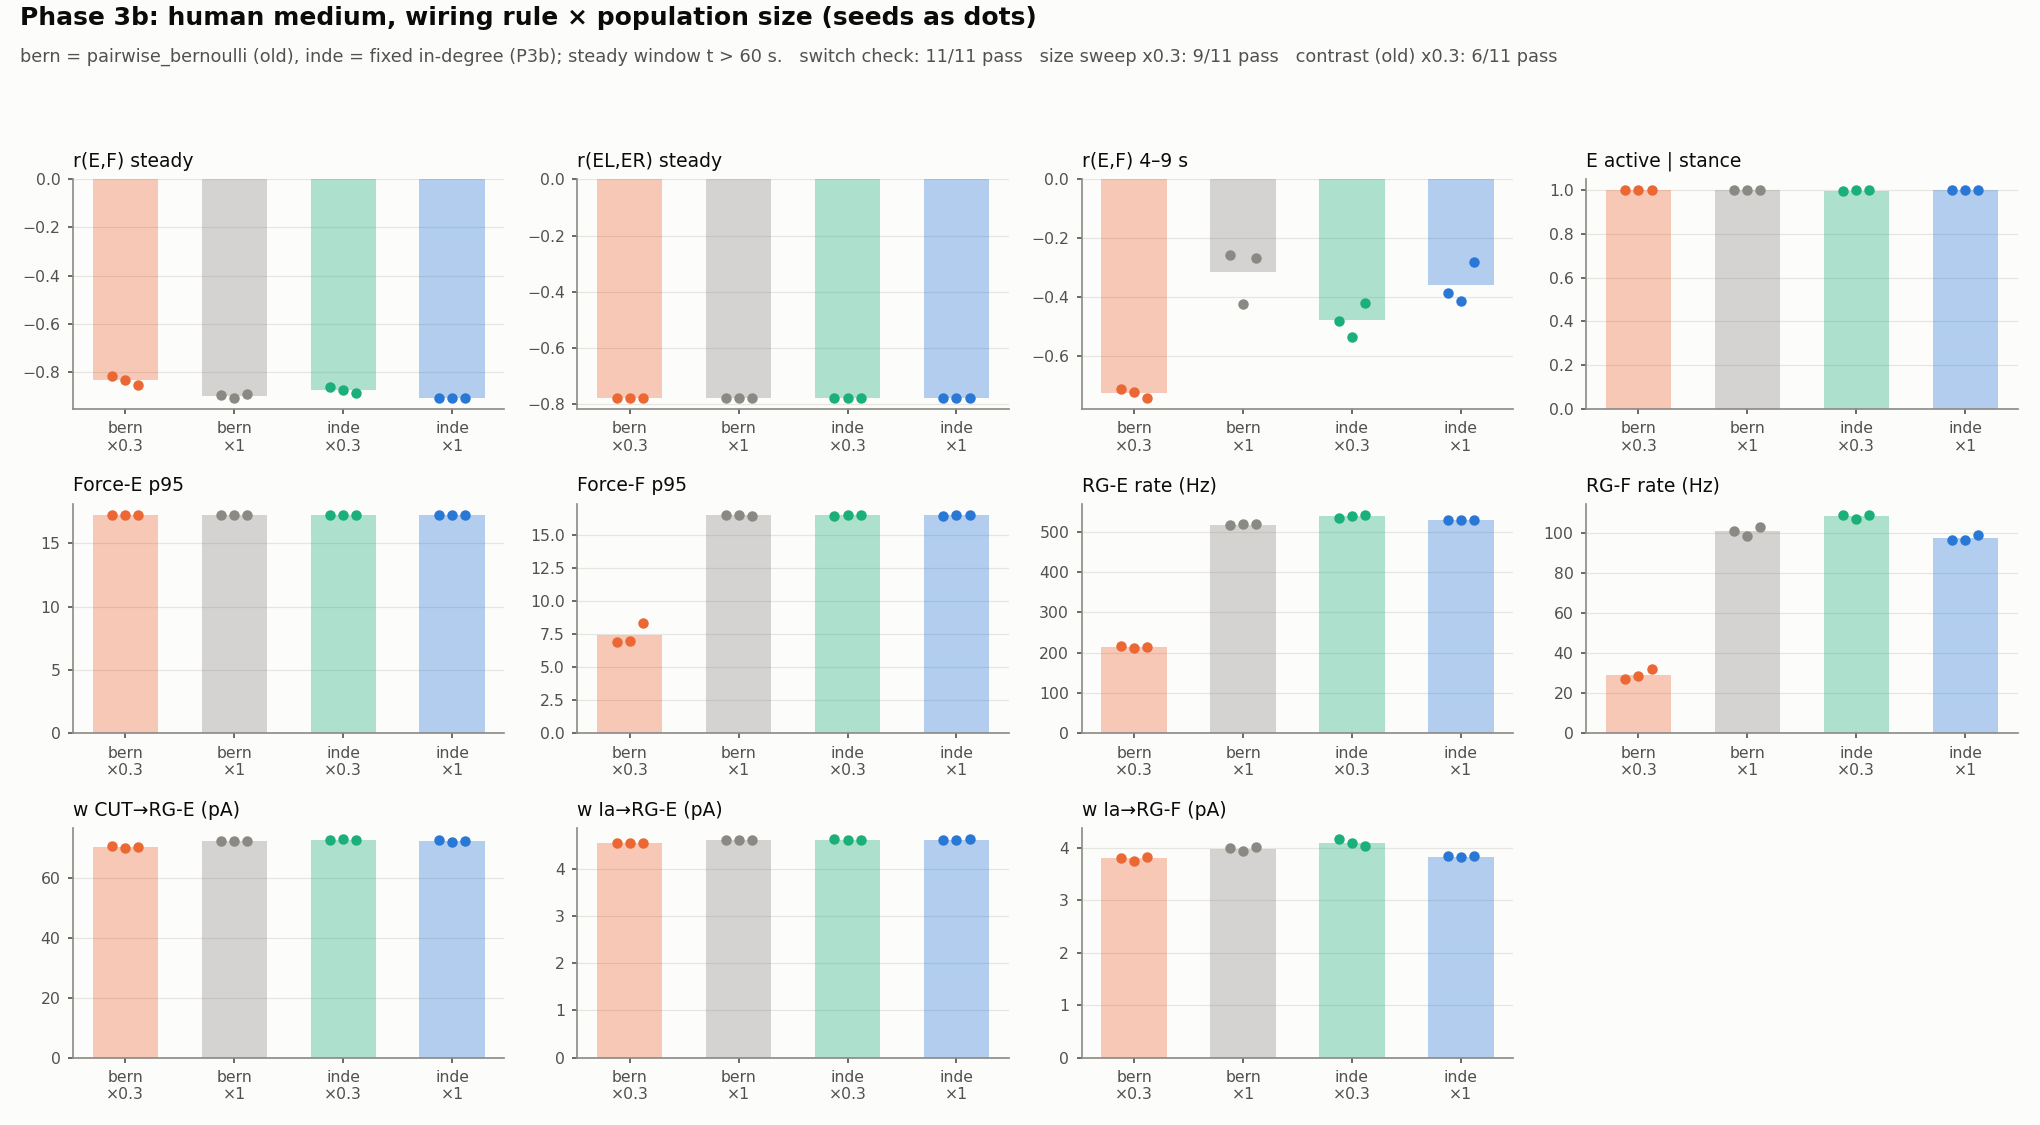
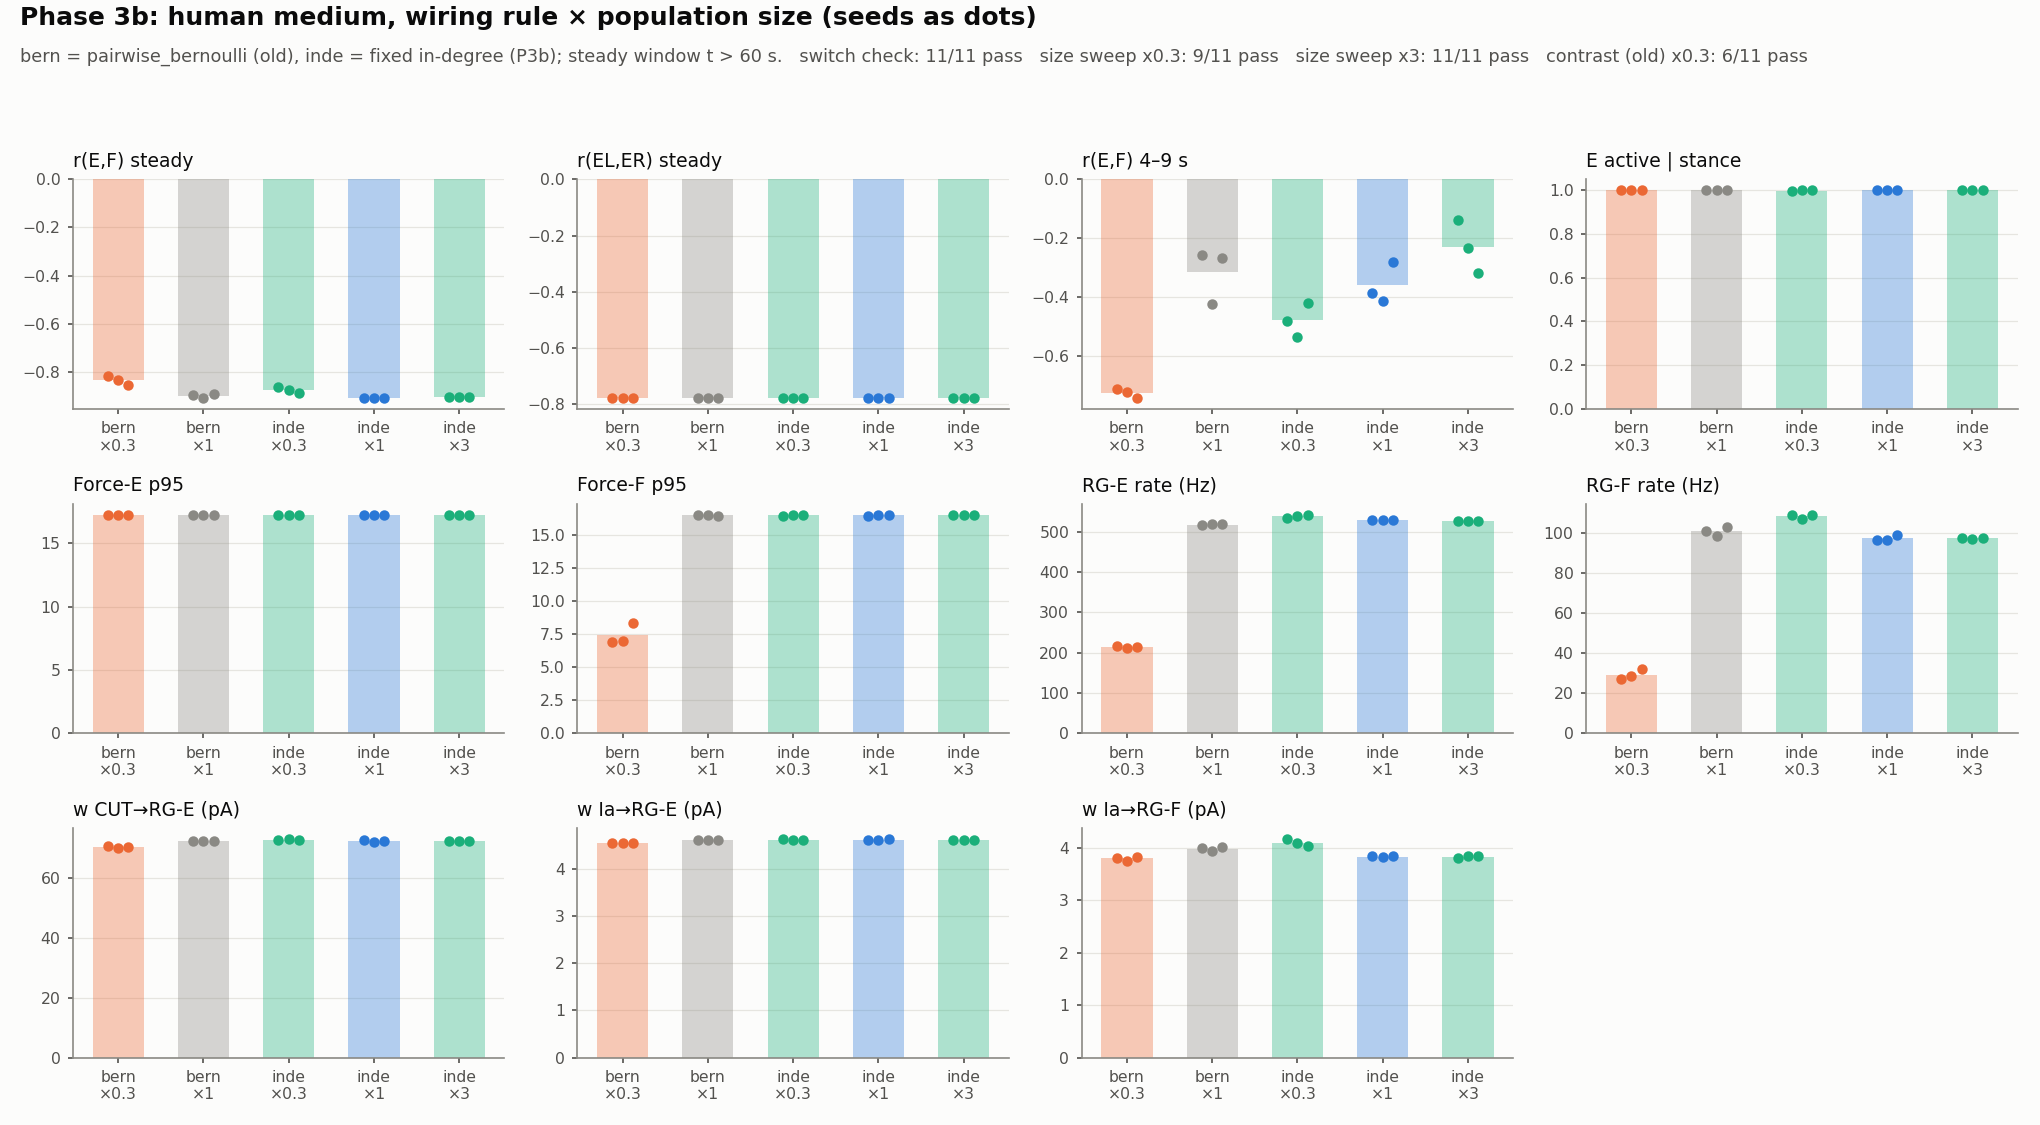
Phase 3b: MN5 3x size check matches 1x (11/11 metrics); figures and README

diff --git a/README.md b/README.md
@@ -93,7 +93,7 @@ The model inherits these mechanisms from tinyCPG:
 | Human conduction/synaptic delay values (`delays:` in `config/species/human.yaml`) | done (P2; reflex probe 30.2 ms) |
 | Species-dependent flexor BS gain (`FLEXOR_BS_GAIN` in the species YAML) | present, currently 1.0 for both species |
 | Human stance fraction with double support (`--gait-scheduler phase`, stance 0.60) | done (P3) |
-| Size-invariant wiring (`--conn-rule indegree`, human default) and consolidation of every plastic synapse (B13) | done (P3b); 3×/10× size check on MN5 pending |
+| Size-invariant wiring (`--conn-rule indegree`, human default) and consolidation of every plastic synapse (B13) | done (P3b); 3× on MN5 matches 1× (11/11 metrics); 10× moved to MN5 check B (cost) |
 | Vanilla STDP retired for human: force-trigger + tag-and-capture consolidation by default | to do (P5, after the P4 muscle) |
 | Human gait timing: stride period and cadence per mode | to do (P5) |
 | Human bio-plausibility constraint table, replacing the rat table in `CLAUDE.md` | to do |
